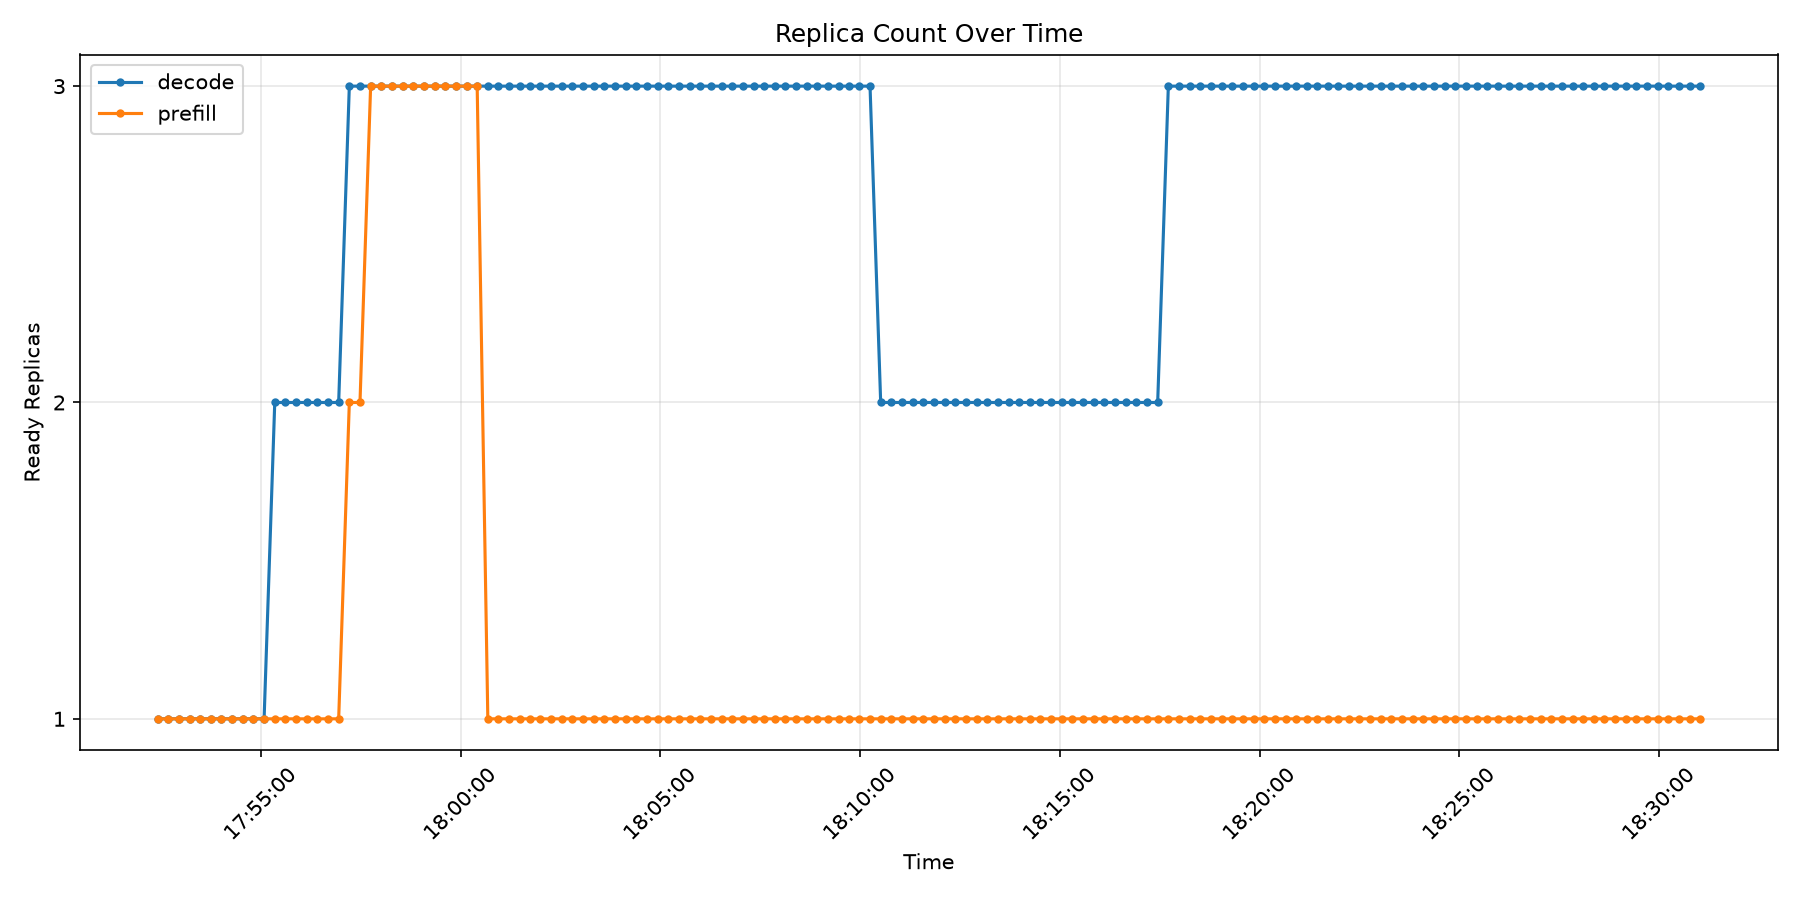
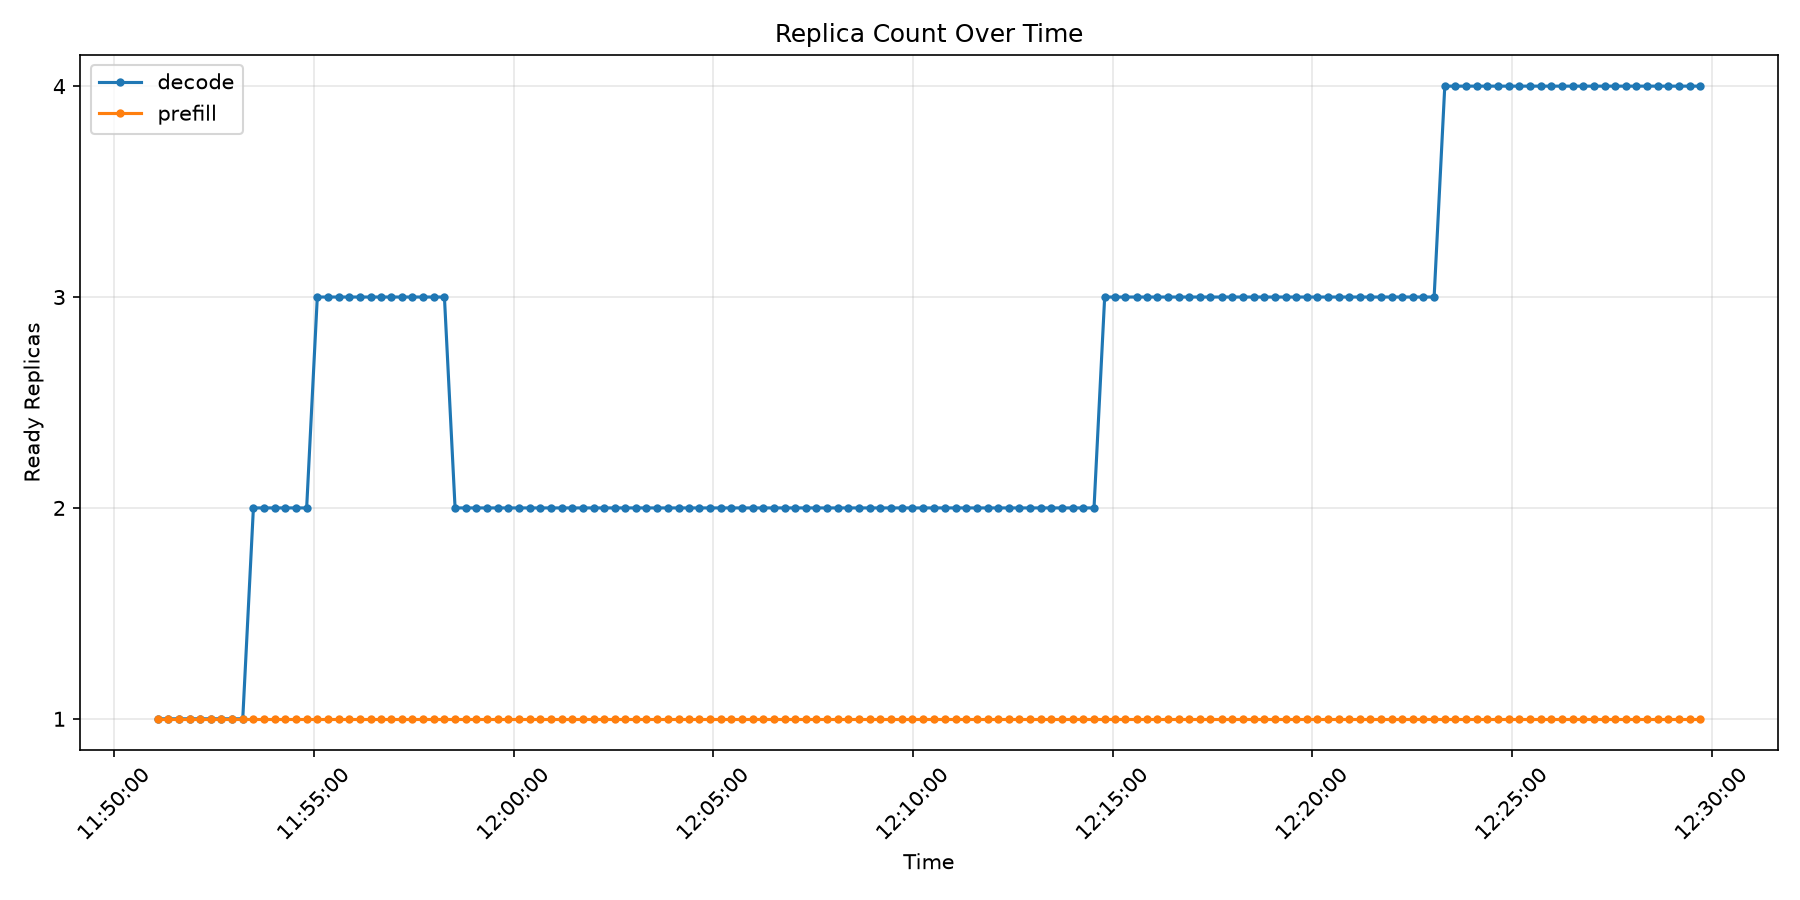
docs(pd): the well-lit path shows the run on this tree
Two passes of the shape-swap trace on one controller (kermit, 2026-09-17):
the second, with both shapes' throughput on record, is the page's run; the
first, cold, is the second column where it differs. Against the run the
page showed before: first-ramp target 3 instead of 6, prefill never ordered,
p95 TTFT 213 ms instead of 17.2 s, the phase-2 learning saturation gone
(0.22 s in its window instead of 4.8 s), 100 GPU-minutes instead of 122.
The one spare replica in the last six minutes is one noisy arrival-rate
sample and is named as such. Graphs replaced with the run's own.

diff --git a/docs/well-lit-paths/pd-disaggregation/README.md b/docs/well-lit-paths/pd-disaggregation/README.md
@@ -2,11 +2,10 @@
 
 > **Experimental.** The scenario stands up and runs, WVA's role handling is
 > covered end to end, and the shape has a published benchmark (below). What is
-> still short: a backlog is sized as if it had to be resident at once, so the
-> first ramp and every new shape's first saturation over-order for a few
-> minutes (named under *Measured*), and there is no P/D-specific steady-state
-> e2e spec. Take it as a working recipe with one open item, not a settled
-> default.
+> still short: a shape the controller has never seen saturated is sized from
+> occupancy until it has (named under *Measured*), and there is no
+> P/D-specific steady-state e2e spec. Take it as a working recipe with one
+> open item, not a settled default.
 
 Prefill and decode have different shapes — prefill is compute-bound, decode is
 memory-bandwidth-bound — so llm-d can run them as separate deployments connected
@@ -131,25 +130,28 @@ causes it, so check `kubectl create deployment` works in your namespace first.
 
 The scenario, trace, policy and HPA behaviour above, on CoreWeave 8 x H200
 nodes (k1 = 929,894 tokens per decode replica), against the controller image
-built from this tree, on 2026-09-16 (run `guidellm-1789581140-kb3q2v_1`).
-The graphs and tables are the ones `post_run_analyze.sh` writes.
+built from this tree, on 2026-09-17 (run `guidellm-1789645863-l32fnc_1`).
+The controller had served one pass of the same trace before this one, so the
+saturated throughput of both shapes was on record; the pass before it, on a
+controller that had seen nothing, is the second column where it differs. The
+graphs and tables are the ones `post_run_analyze.sh` writes.
 
-| | |
-|---|---|
-| decode replicas ordered | 1 → 6 (first ramp) → 3 → 2 → 3 → 4, **held to the end** |
-| decode replicas Ready | at most 3: the cluster had no free GPUs for the rest |
-| prefill replicas | 1 → 3 (first ramp) → 1 |
-| ready replicas, both roles, mean / max | 3.78 / 6 |
-| TTFT p50 / p95 | 102 ms / 17.2 s |
-| ITL p50 / p95 | 6.3 / 23.5 ms |
-| request latency p50 / p95 | 19.7 / 91.2 s |
-| requests / errors | 13,288 / 0 |
+| | this run | the cold pass before it |
+|---|---|---|
+| decode replicas ordered | 1 → 3 (first ramp) → 2 → 3 → 4, held | 1 → 3 → 2 → 3 → 4, held |
+| second decode replica ordered | +62 s after load start | +81 s |
+| prefill replicas | 1 throughout | 1 throughout |
+| replicas, both roles, mean / max | 2.59 / 4 | 2.73 / 4 |
+| TTFT p50 / p95 / p99 | 100 ms / **213 ms** / 11.7 s | 99 ms / 7.0 s / 24.7 s |
+| ITL p50 / p95 | 5.4 / 21.7 ms | 4.1 / 23.0 ms |
+| request latency p50 / p95 | 14.6 / 79.2 s | 14.2 / 84.5 s |
+| GPU-minutes | 100.0 | 105.3 |
+| requests / errors | 13,288 / 0 | 13,288 / 0 |
 
 Where the tail is, by five-minute window (p95 TTFT from the engines' own
-histograms): **8.4 s in minutes 0-5**, then 0.05-0.07 s for the rest of the
-first phase; **4.8 s in minutes 20-25**, then 0.04-0.17 s for the rest of the
-second. The two windows are the two saturations below; outside them the p95 is
-under a tenth of a second.
+histograms): **1.8 s in minutes 0-5**, then 0.08 s for the rest of the first
+phase; **0.22 s in minutes 20-25**, then 0.04-0.05 s for the rest of the
+second. On the cold pass the same two windows read 7.0 s and 3.3 s.
 
 ![pipeline: replicas, demand vs capacity, KV, running, waiting, EPP queue](shape-swap-rps6-pipeline.png)
 
@@ -158,43 +160,40 @@ under a tenth of a second.
 How to read it.
 
 **The first ramp** (minutes 0-5). One decode replica serves 6 req/s until the
-second one is Ready, which took 140 s here; in that time its queue reached
-150 and the flow-control queue 180, and the analyzer -- which charges every
-queued request as KV that must be resident at once -- ordered six decode and
-three prefill replicas to drain it. Three decode replicas ever became Ready
-(the cluster was full), the queue was gone before any of them arrived, and
-the target came back down over the next ten minutes. How deep this ramp goes
-is set by the second replica's start time against the load; a run of the
-same trace an hour earlier, where it landed in 97 s, peaked at three with a
-0.4 s p95. Sizing a backlog by throughput rather than residency is the open
-item in [Sizing a backlog](../../proposals/backlog-sizing.md).
+second is Ready. The analyzer knows what one replica of this shape completes
+when saturated, and the arrival rate over that is 0.85-0.91 of a replica from
+the first cycle the rate is measured, so it orders the second replica at
++62 s -- from the load, not from the queue, and before the first replica
+tips into preemption. The second lands at +160 s; a queue of ~110 forms in
+the last minute of the wait and is priced as work to drain within 60 s
+(`backlogRequests` on the `throughput-demand-floor` line), which is one more
+replica, not five: the target peaks at 3, the queue is gone in a minute, and
+the third replica is released at +6 min. Prefill is never ordered: prompts
+waiting at the scheduler are no longer charged to it as resident KV.
 
 **The first phase, steady** (minutes 5-18). Occupancy is a fraction of one
 replica (5-15% KV) -- the reading that, taken alone, would size the fleet to
 one. The dashed target holds at two because the analyzer floors each role's
 demand at what the load requires in throughput: the arrival rate over the
-completion rate one replica sustained when it was last seen saturated
-(`throughput-demand-floor` in the controller log carries the terms). Prefill
-holds at one because nothing is charged to it.
+completion rate one replica sustained when it was last seen saturated.
 
-**The shape change** (minute 18 on). The 4000-token shape has never been
-seen saturated, so the floor borrows the 1000-token shape's throughput and
-holds two, which is one short for this shape. The two replicas fall behind by
-growing their batch rather than a queue -- 75 to 229 against an engine
-ceiling of 256, ITL 6 to 20 ms -- until the batch reaches the ceiling, a queue
-forms (the blip at 18:16), and the replicas' own completion rate for this
-shape, 2.97 req/s, is recorded. From there the floor is 6 / 2.97 = two
-replicas' worth, occupancy plus the queue order a third and then a fourth
-(the ramp again, smaller), and the fleet **holds** for the remaining eleven
-minutes. That one saturation is the 4.8 s window above: the price of learning
-a new shape's throughput by reaching it, paid once per shape per bucket.
+**The shape change** (minute 18 on). The 4000-token shape's throughput is on
+record (2.67 req/s), so as the replicas' output length crosses into its
+bucket the floor becomes 6 / 2.67 = 2.25 replicas' worth and orders the
+third at +4 min into the phase -- no queue forms at all (the waiting panel is
+flat through the whole second phase), the batch peaks at 63% KV and relaxes.
+The fourth, at minute 31, is one noisy arrival-rate sample (6.7 req/s for a
+cycle against a steady 5.4-6.0) tipping 2.5 replicas' worth over the
+three-replica boundary; the analyzer asked for three again 90 s later and the
+HPA's 180 s window kept the fourth to the end. One spare replica for six
+minutes is the cost of that jitter today.
 
-What still moves: the ramp on every saturation, first or new-shape, is the
-backlog charged as residency; and a shape is learned only by saturating on
-it once. Both are named in the proposal doc. What no longer moves: the fleet
-does not fall below what the load needs once a shape is known, and a fleet
-that has just caught up is not scaled down for looking idle. The mechanism
-is in [the throughput floor](../../developer-guide/saturation-demand-floor.md).
+What still moves: a controller that has never seen a shape saturated has no
+throughput for it and sizes that first ramp from occupancy and the backlog,
+which is the cold pass in the table -- a peak of three still, but the order
+comes 20 s later and the queue is deeper. The mechanism is in
+[the throughput floor](../../developer-guide/saturation-demand-floor.md); the
+analysis that led to it in [Sizing a backlog](../../proposals/backlog-sizing.md).
 
 ## How it is tested
 
